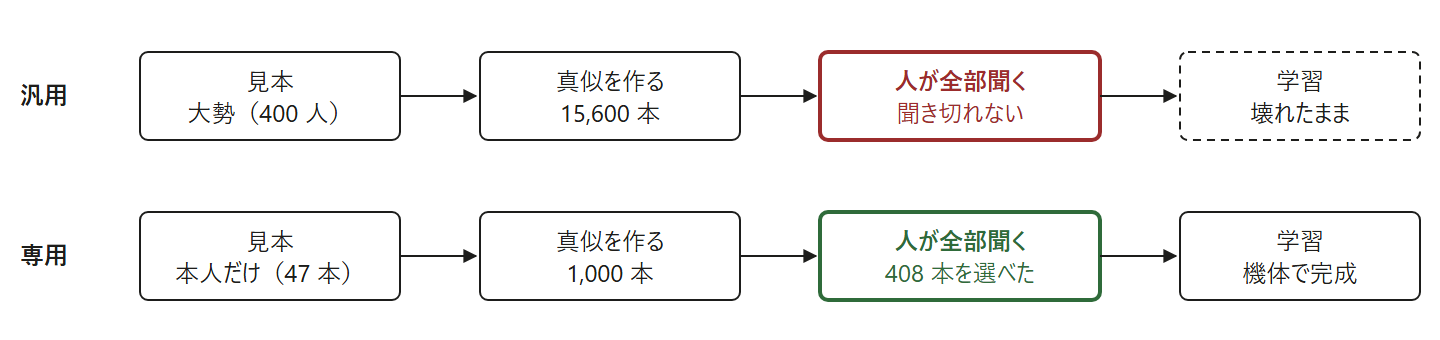
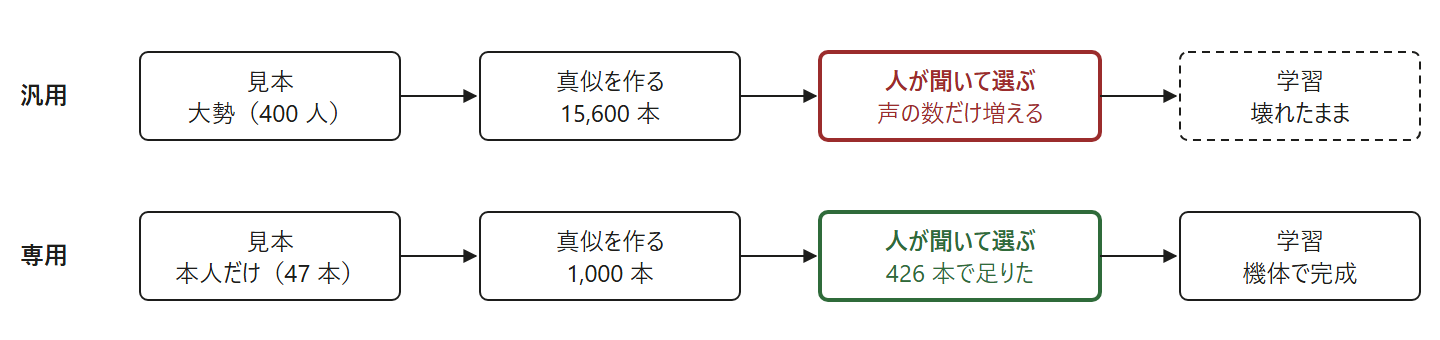
③: 聞いて選ぶのは全部でなくてよい（カタノリは 1,000 本のうち 426 本を聞いて足りた）。汎用の壁は「声の数だけ聞く量が増える」に書き直し、図も直す

Changed region(s): [[0.5938, 0.2059, 0.7188, 0.3824], [0.5938, 0.6765, 0.7188, 0.8529]]

diff --git a/articles/wakeword-ja-general.md b/articles/wakeword-ja-general.md
@@ -90,9 +90,9 @@ microWakeWord は、増強で元の音を窓の右端に寄せ、学習では正
 ## 残っている壁
 
 ![汎用と専用の違い](/images/03-general-2.png)
-*違いは「人が全部聞く」段に流れ込む本数。短い 1 語は機械で確かめられないので、ここが通れる数かどうかで道が分かれる。*
+*違いは「人が聞いて選ぶ」段の重さ。短い 1 語は機械で確かめられない。専用なら 400 本前後聞けば足りたが、大勢の声では声ごとに確かめる必要があり、聞く量が声の数だけ増えると考えている。*
 
-**大勢の声で作った材料を、確かめる方法が無い。** 短い 1 語が言えているかは、音声認識の文字比較（当て字で落としすぎる）でも、音の距離（MFCC＋DTW、良い物 0.361・悪い物 0.348 で区別できない）でも見分けられず、人が聞くしかなかった。持ち主専用なら数百本を聞けば済むが、大勢の声で数万本を作ると、聞き切れない。汎用の道でいちばん大きいのはここだと考えている。
+**大勢の声で作った材料を、確かめる方法が無い。** 短い 1 語が言えているかは、音声認識の文字比較（当て字で落としすぎる）でも、音の距離（MFCC＋DTW、良い物 0.361・悪い物 0.348 で区別できない）でも見分けられず、人が聞くしかなかった。持ち主専用なら、1,000 本作って 426 本を聞いた所で足りた。大勢の声で作るなら、声ごとに言えているかを確かめる必要があり、聞く量が声の数だけ増える。汎用の道でいちばん大きいのはここだと考えている。
 
 **汎用の物差しが無い。** こちらの物差しは持ち主 1 人の声だけである。汎用を名乗るには、何人もの人が機体に向かって呼んだ音が要る。これは作っていない。
 
